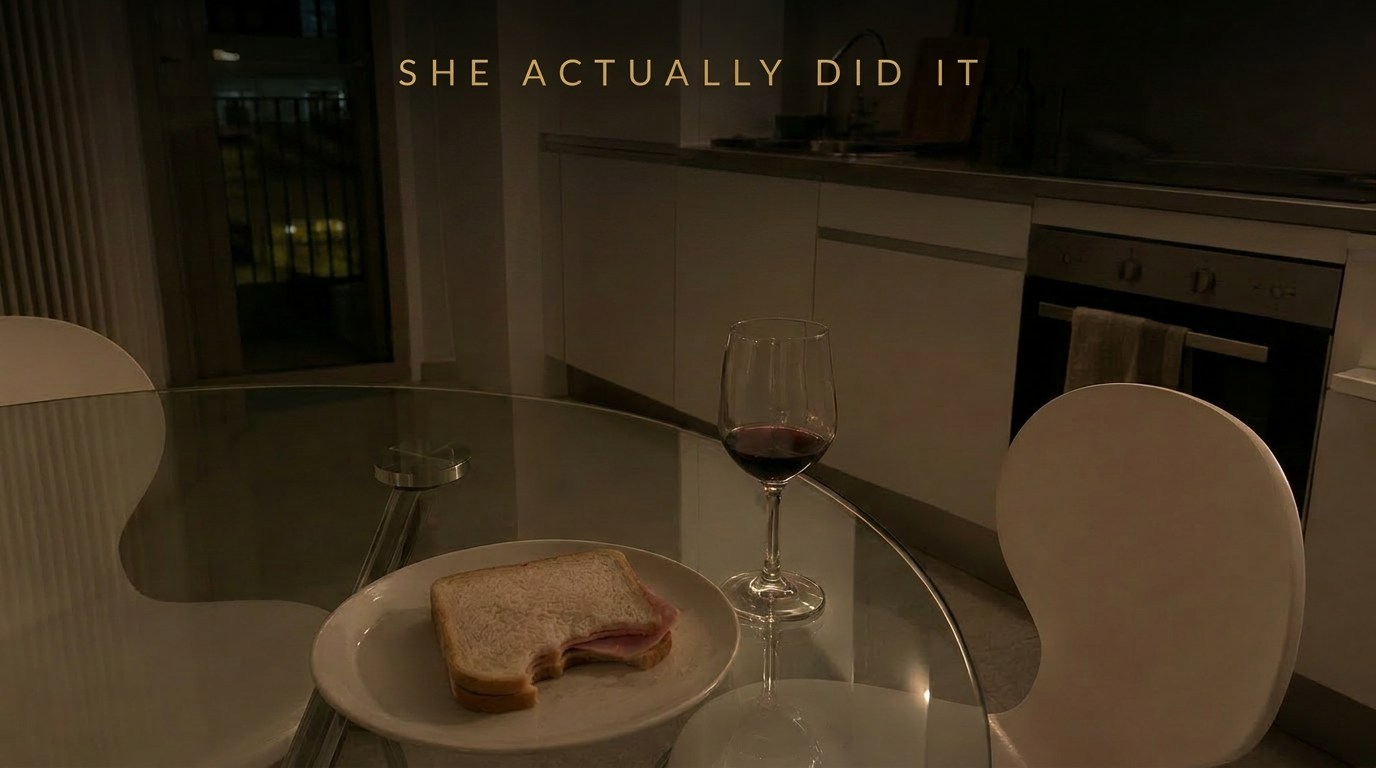
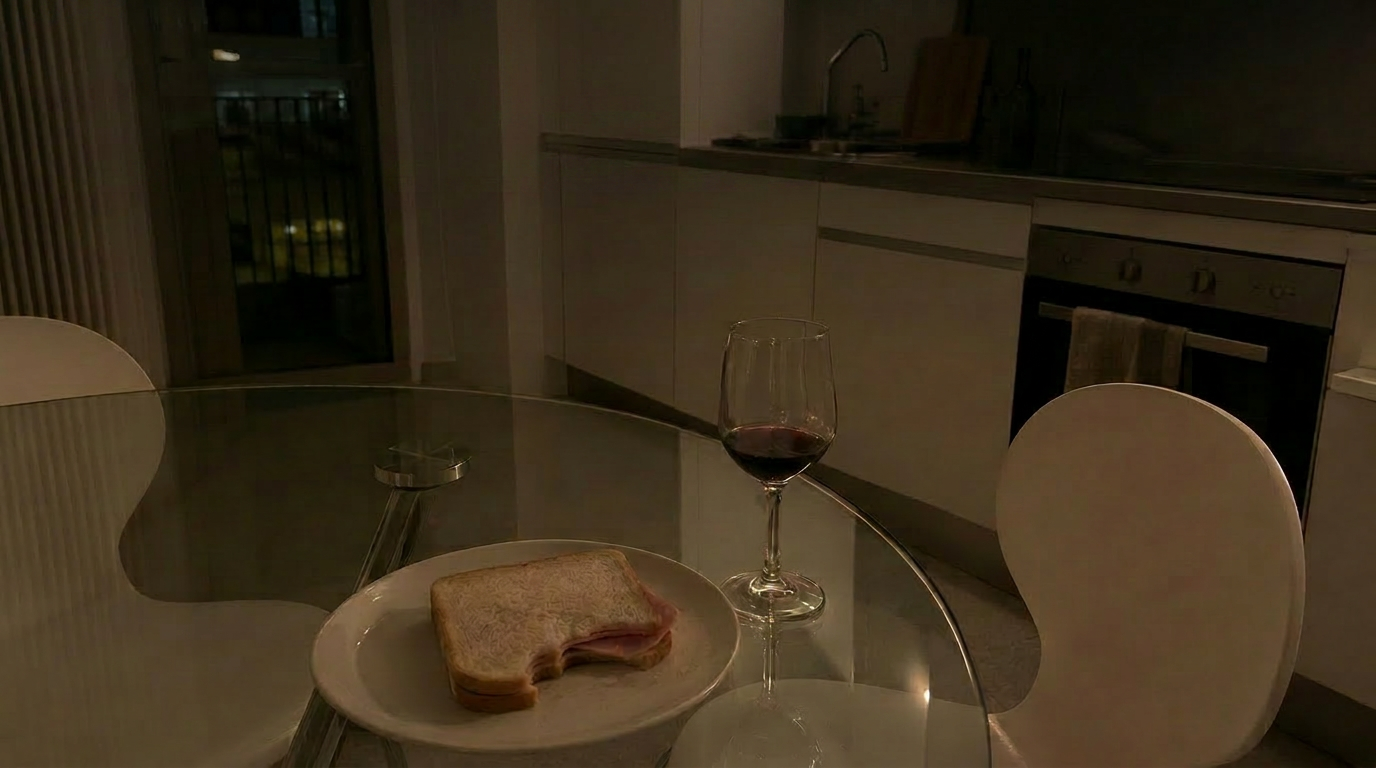
Changes

diff --git a/.lovable/plan.md b/.lovable/plan.md
@@ -1,17 +1,8 @@
-I’ll make only these targeted post-page changes:
+I found the problem: the words **“She Actually Did It”** are baked directly into the hero image file used by the ribs story (`/posts/ribs-sandwich-hero-v2.png`). That is why removing HTML eyebrow text did not fix what you’re seeing.
 
-1. **Three generations post (`public/posts/she-actually-did-it.html`)**
-   - Add the visible H1 heading after the hero image and before the article body:
-     `My Grandmother Did It. My Mother Did It. I Did It.`
-   - Use the existing post-page typography/style pattern so it appears as the post title, without changing body copy or the Stories card.
+Plan:
+1. Create a cleaned replacement version of the ribs hero image with the top text removed from the image itself.
+2. Save it over the existing public image path so the ribs post continues using the same image reference and no page structure changes are needed.
+3. Verify the ribs post file and image no longer contain/show the “She Actually Did It” label.
 
-2. **Now What post (`public/posts/now-what.html`)**
-   - Ensure the visible H1 heading appears in the hero/post header as:
-     `Now What: What Nobody Tells You About After`
-   - If it is currently hidden or only present in metadata/overlay markup, adjust only that heading area so it is visibly rendered.
-
-3. **Ribs and Christmas Eve post (`public/posts/ribs-sandwich.html`)**
-   - Remove any remaining `She Actually Did It` eyebrow/label from the post page entirely.
-   - Verify the text does not appear anywhere in that specific post file.
-
-I will not change the Stories page grid, card titles, card teasers, images, dates, navigation, or any other page.
+Scope: only the ribs and Christmas Eve story hero image will change. No Stories page cards, titles, dates, body copy, navigation, or other pages will be changed.
